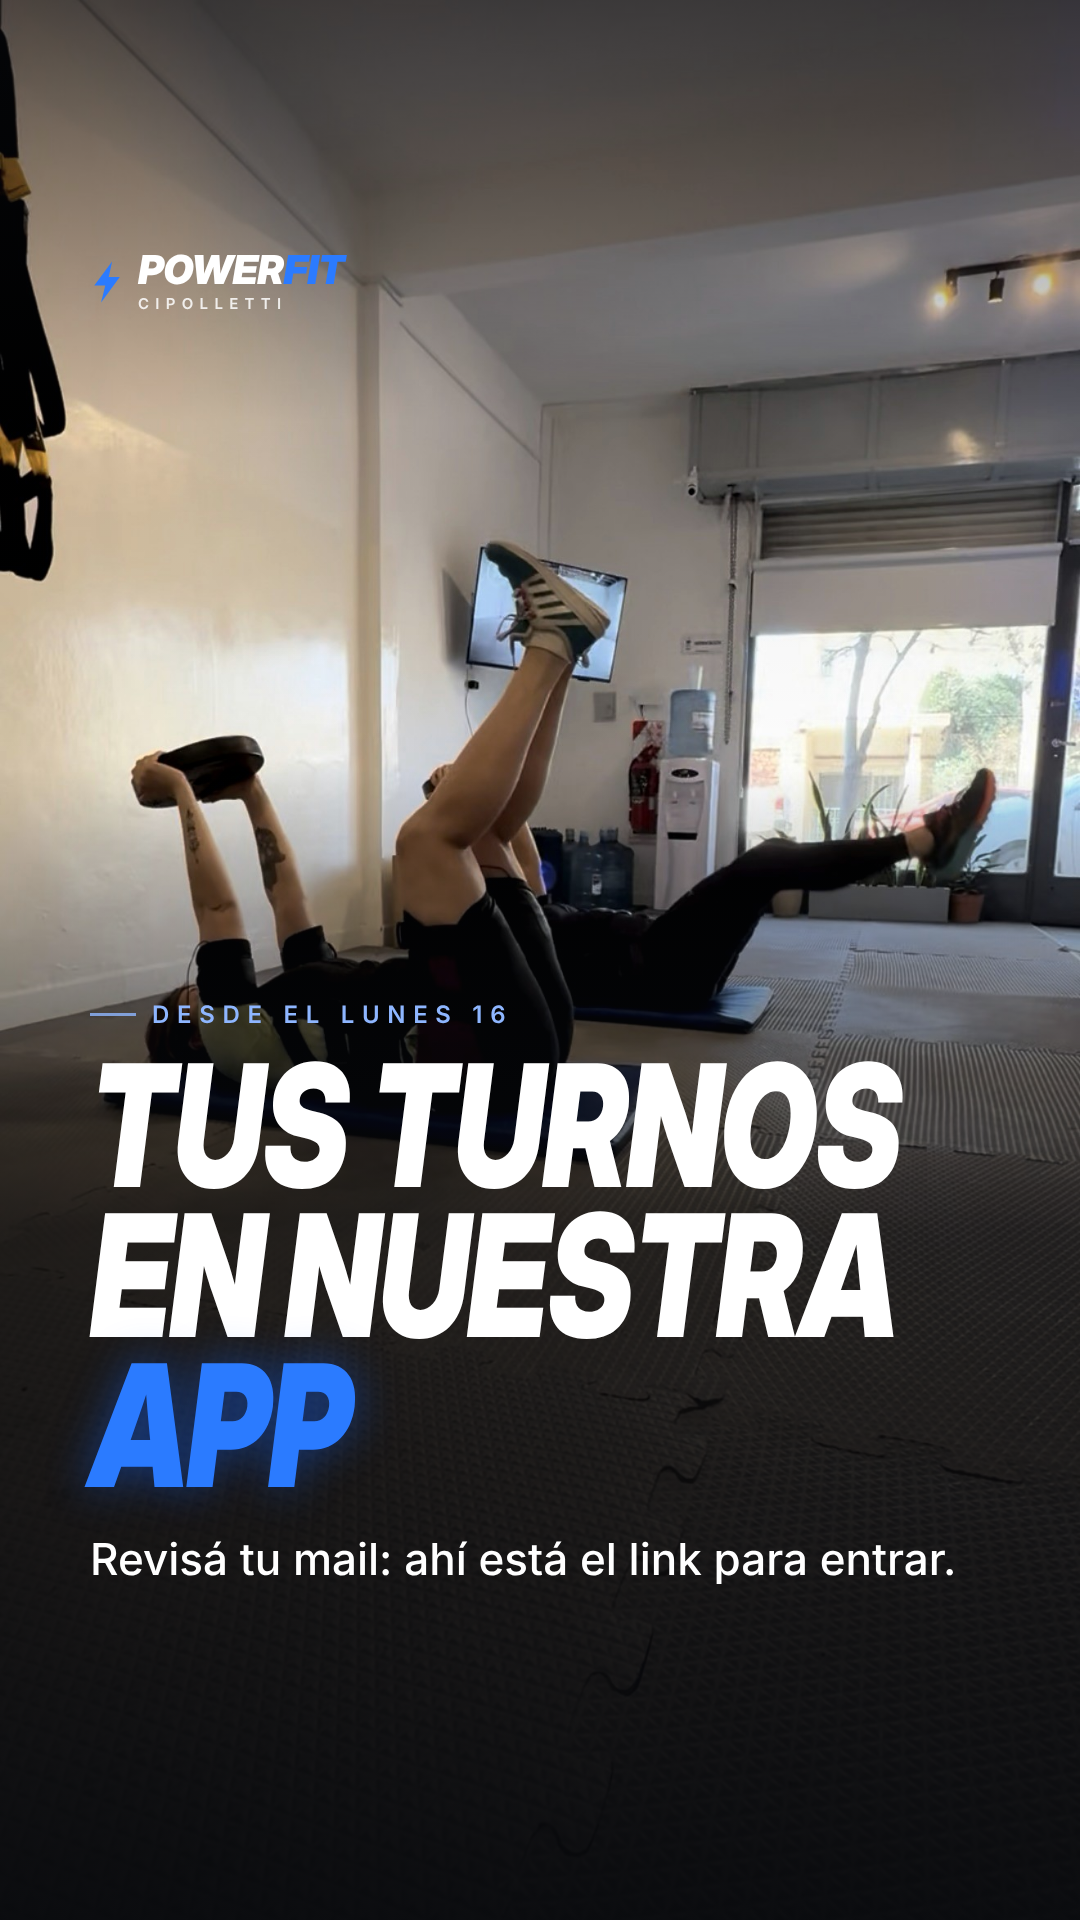
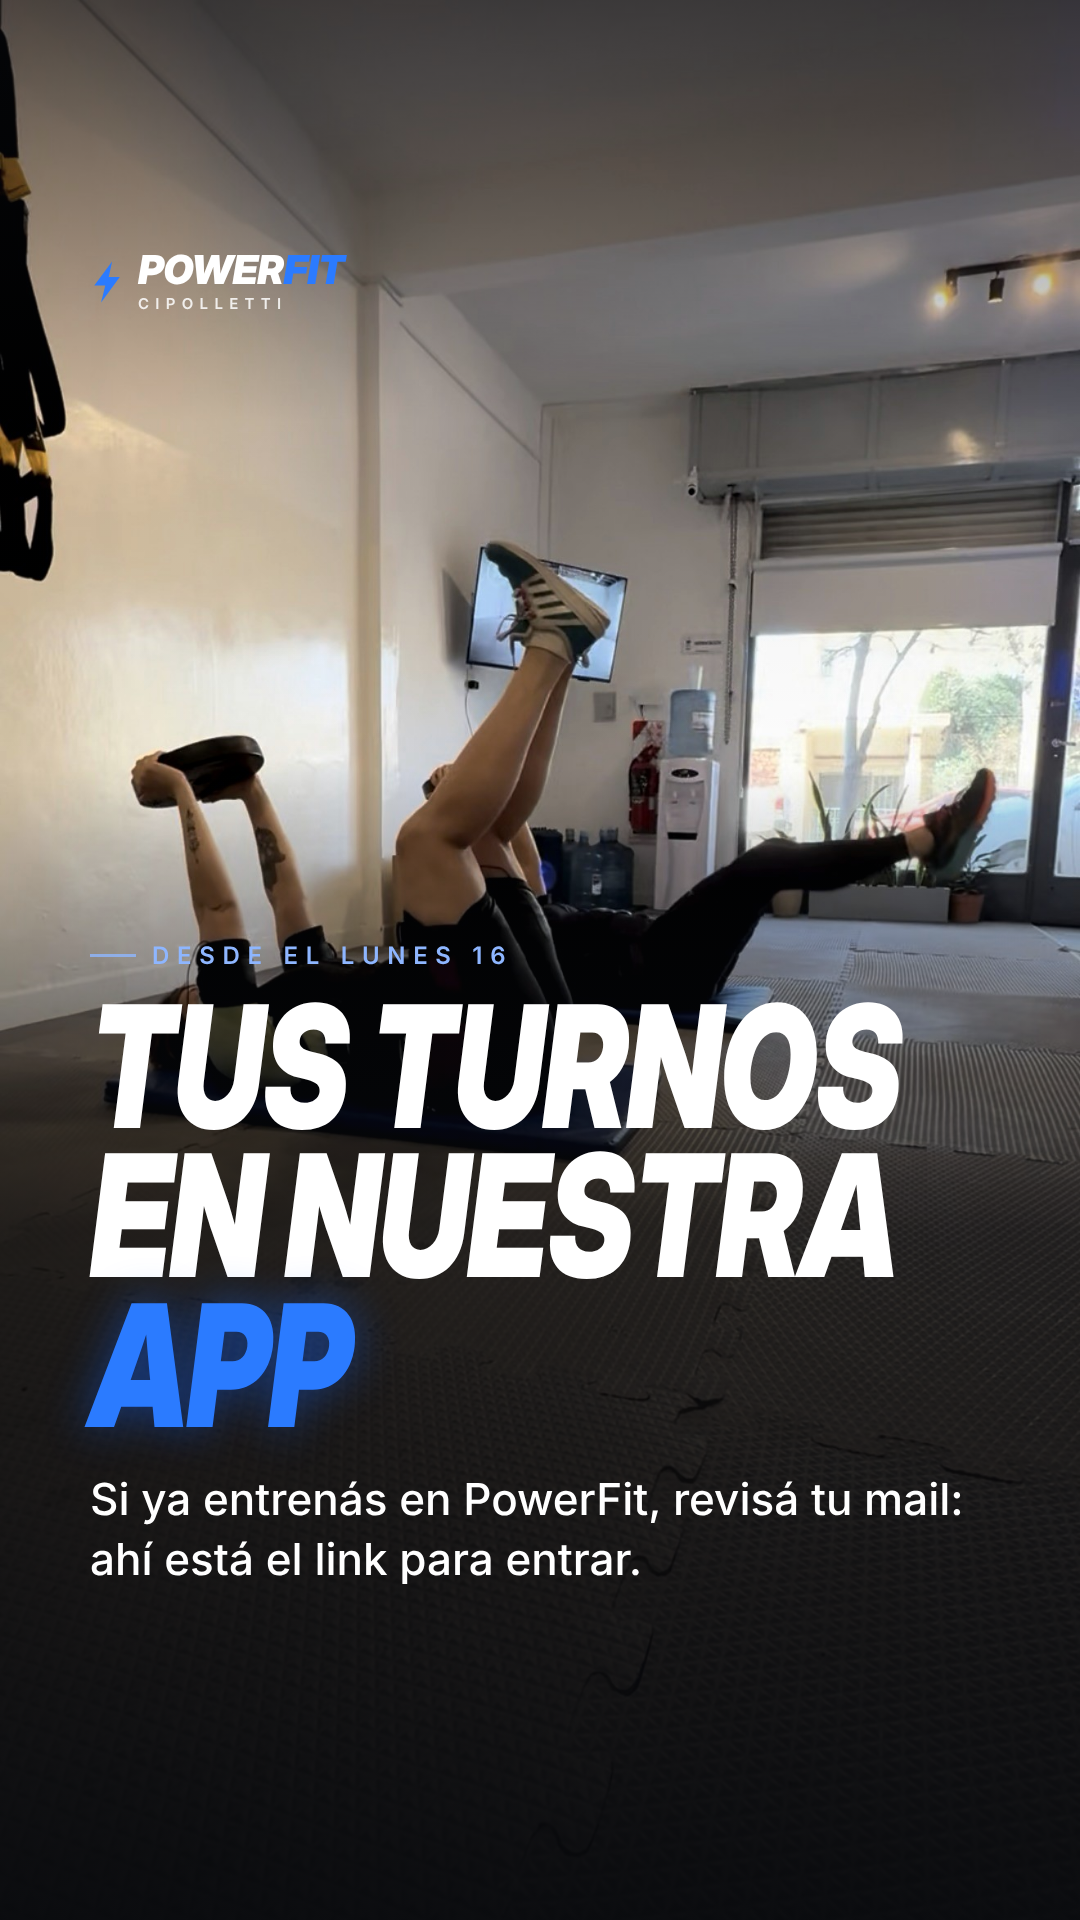
App propia: aclarar que el mail es para quien ya entrena
Claude-Session: https://claude.ai/code/session_01H35xmRxsE6r8xL9N2St37N

Changed region(s): [[0.0611, 0.5, 0.8861, 0.8438]]

diff --git a/app-propia-2026-11/piezas.py b/app-propia-2026-11/piezas.py
@@ -37,10 +37,10 @@ POSTS = {
  '2026-11-14-post-app-1': ('foto', H + '<div class="eye">Desde el lunes 16</div><h1>Tenemos<br>nuestra<br><em>propia app</em></h1><p class="sub">Tus turnos, tu plan y tus clases, en el celu.</p><div class="pie" style="margin-top:40px"><span>Deslizá</span><span class="boton">Ver más →</span></div>', 'dr_13d6_dos_alumnas_sonrien', '50% 18%'),
  '2026-11-14-post-app-2': ('oscuro', '<div class="eye" style="margin-top:30px">Reservar es así de fácil</div><div class="fila" style="margin-top:40px"><div class="txt"><h1 style="font-size:118px">Elegís<br>día y<br><em>horario</em></h1><p class="sub" style="font-size:32px">Y si te surge algo, lo cambiás o lo cancelás hasta 1 hora antes.</p></div>' + CEL('cel-reservar.png') + '</div>' + PIE.format('Desde el lunes'), None, None),
  '2026-11-14-post-app-3': ('claro', '<div class="eye" style="margin-top:30px">Todo a la vista</div><div class="fila" style="margin-top:40px"><div class="txt"><h1 style="font-size:118px">Tus<br>clases<br>y tu <em>plan</em></h1><p class="sub" style="font-size:32px">Cuántas clases te quedan, cuándo vence tu plan y tus próximos turnos.</p></div>' + CEL('cel-inicio.png') + '</div>' + PIE.format('Desde el lunes'), None, None),
- '2026-11-14-post-app-4': ('foto', H + '<div class="eye">¿Cómo entro?</div><h1>Revisá<br>tu <em>mail</em></h1><p class="sub">Te mandamos el link por mail y por WhatsApp. Entrá con el mismo mail que nos diste. ¿No te llegó? Escribinos.</p>' + PIE.format('WhatsApp →'), 'dr_3cc2_plancha_dos', '50% 45%'),
+ '2026-11-14-post-app-4': ('foto', H + '<div class="eye">Si ya entrenás en PowerFit</div><h1>Revisá<br>tu <em>mail</em></h1><p class="sub">Te mandamos el link por mail y por WhatsApp. Entrá con el mismo mail que nos diste. ¿No te llegó? Escribinos.</p>' + PIE.format('WhatsApp →'), 'dr_3cc2_plancha_dos', '50% 45%'),
 }
 HIST = {
- '2026-11-14-historia-app': ('foto', H + '<div class="eye">Desde el lunes 16</div><h1>Tus turnos<br>en nuestra<br><em>app</em></h1><p class="sub">Revisá tu mail: ahí está el link para entrar.</p>', 'ft_6729_abdominales', '45% 55%'),
+ '2026-11-14-historia-app': ('foto', H + '<div class="eye">Desde el lunes 16</div><h1>Tus turnos<br>en nuestra<br><em>app</em></h1><p class="sub">Si ya entrenás en PowerFit, revisá tu mail: ahí está el link para entrar.</p>', 'ft_6729_abdominales', '45% 55%'),
  '2026-11-16-a-historia-app': ('oscuro', '<div class="eye" style="margin-top:70px">Hoy arranca</div><h1 style="font-size:150px">Reservá<br>desde la <em>app</em></h1><p class="sub">Entrá con el link que te mandamos.</p><div style="margin-top:24px">' + CEL('cel-inicio.png') + '</div>', None, None),
  '2026-11-16-b-historia-app': ('claro', '<div class="eye" style="margin-top:40px">Un tip</div><h1>Guardala<br>en tu <em>celu</em></h1><div class="pasos"><div><b>iPhone</b>Abrila en Safari, tocá Compartir y después “Agregar a inicio”.</div><div><b>Android</b>Abrila en Chrome, tocá los tres puntitos y después “Agregar a pantalla principal”.</div></div><p class="sub">Así la abrís como cualquier app, con un toque.</p>', None, None),
 }
